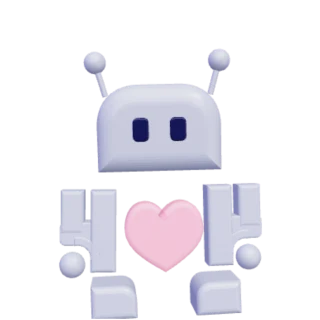
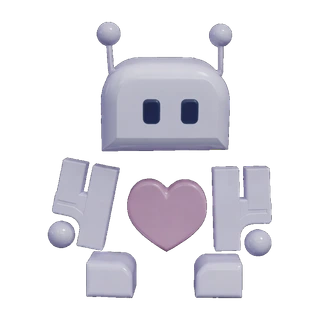
feat(open-web-vectors): camera-facing 3D robot in the hero orbit
Swap the side-on WebGL still for the same studio plate used on the
site OG cards, isolated on transparency so the flower-of-life ring
still reads behind it.

diff --git a/site/templates/open-web-vectors.html b/site/templates/open-web-vectors.html
@@ -42,8 +42,9 @@
         the point.
 
         What is kept: the flower-of-life ring geometry, verbatim, and the robot
-        — captured once as a transparent still from the live 3D scene rather
-        than re-rendered here.
+        — the same camera-facing 3D plate used for the site OG cards
+        (scripts/og-assets/robots/look.jpg), isolated on transparency, rather
+        than re-rendered here as WebGL.
 
         The SDK version rides six emoji on the outer circle. They are dropped
         here: at this scale the ring and the robot carry the composition on
